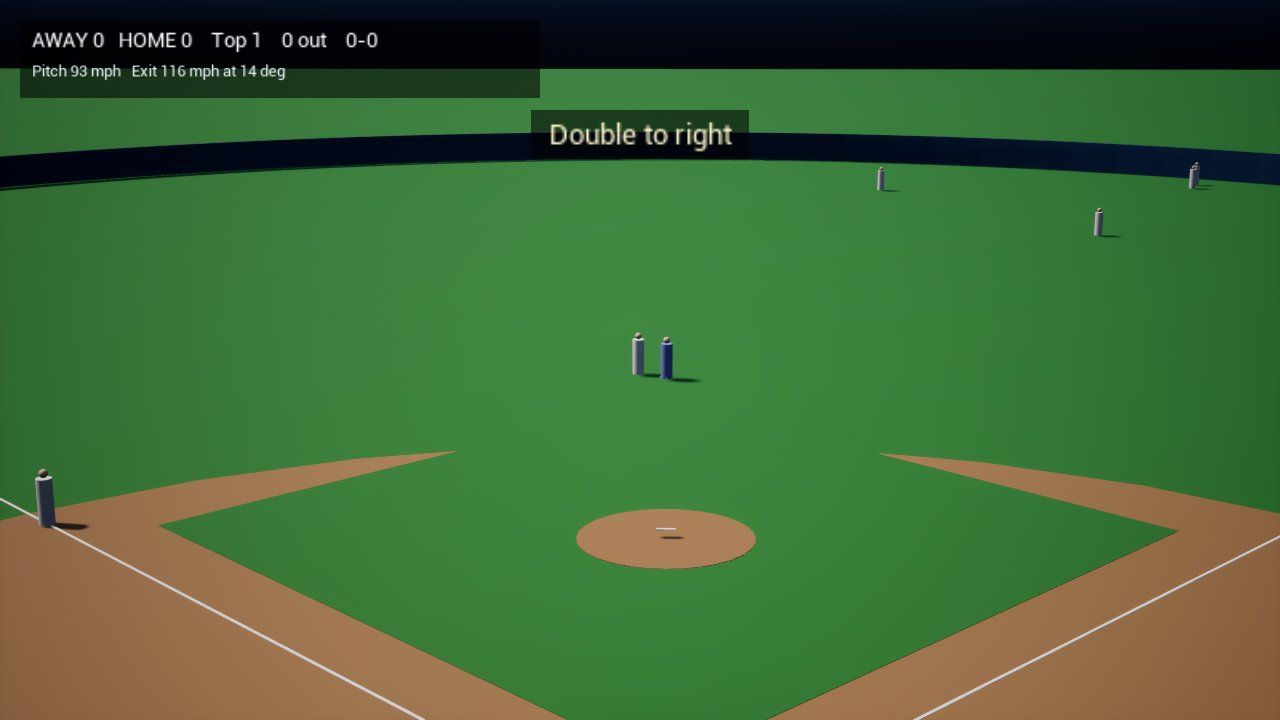
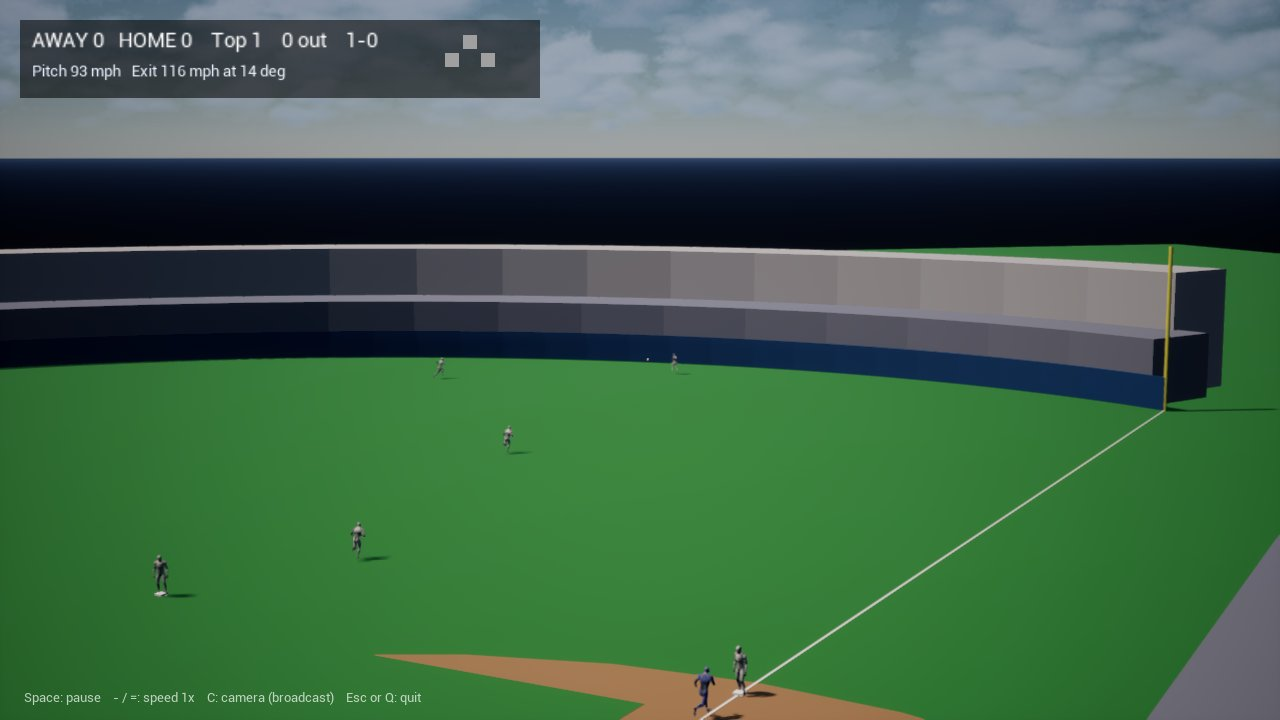
Client: human figures (the engine's mannequin, idle / walk / jog by speed, facing, team tint) and Esc or Q to quit
The mannequin assets are copied from the engine's templates by client/run.sh and stay out
of the repository; without them the cylinders are drawn.

diff --git a/client/Source/BaseballClient/BbDirector.cpp b/client/Source/BaseballClient/BbDirector.cpp
@@ -1,13 +1,17 @@
 #include "BbDirector.h"
 #include "BbFrame.h"
 #include "BbGameMode.h"
+#include "Animation/AnimSequence.h"
+#include "Animation/SkeletalMeshActor.h"
 #include "Async/Async.h"
 #include "Camera/CameraActor.h"
 #include "Camera/CameraComponent.h"
 #include "Components/DirectionalLightComponent.h"
 #include "Components/SkyAtmosphereComponent.h"
 #include "Components/SkyLightComponent.h"
+#include "Components/SkeletalMeshComponent.h"
 #include "Components/StaticMeshComponent.h"
+#include "Engine/SkeletalMesh.h"
 #include "Engine/DirectionalLight.h"
 #include "Engine/ExponentialHeightFog.h"
 #include "Engine/SkyLight.h"
@@ -233,7 +237,32 @@ void ABbDirector::BeginPlay()
 	BuildField();
 	BuildStands();
 
-	// Players: a body and a head each, hidden until a frame uses them.
+	// Players. Human figures if the mannequin assets are in Content (client/run.sh copies
+	// them from the engine's templates; they are not in the repository).
+	FigureMesh = LoadObject<USkeletalMesh>(nullptr, TEXT("/Game/Characters/Mannequins/Meshes/SKM_Manny_Simple.SKM_Manny_Simple"));
+	AnimIdle = LoadObject<UAnimSequence>(nullptr, TEXT("/Game/Characters/Mannequins/Anims/Unarmed/MM_Idle.MM_Idle"));
+	AnimWalk = LoadObject<UAnimSequence>(nullptr, TEXT("/Game/Characters/Mannequins/Anims/Unarmed/Walk/MF_Unarmed_Walk_Fwd.MF_Unarmed_Walk_Fwd"));
+	AnimJog = LoadObject<UAnimSequence>(nullptr, TEXT("/Game/Characters/Mannequins/Anims/Unarmed/Jog/MF_Unarmed_Jog_Fwd.MF_Unarmed_Jog_Fwd"));
+	const bool bFigures = FigureMesh && AnimIdle && AnimWalk && AnimJog;
+	if (!bFigures)
+	{
+		UE_LOG(LogBb, Warning, TEXT("Mannequin assets not found under /Game/Characters/Mannequins: drawing players as cylinders. Run client/run.sh once to copy them."));
+	}
+	FigureState.SetNum(MaxActors);
+	for (int32 I = 0; bFigures && I < MaxActors; ++I)
+	{
+		ASkeletalMeshActor* F = GetWorld()->SpawnActor<ASkeletalMeshActor>(FVector::ZeroVector, FRotator::ZeroRotator);
+		USkeletalMeshComponent* C = F->GetSkeletalMeshComponent();
+		C->SetMobility(EComponentMobility::Movable);
+		C->SetSkeletalMeshAsset(FigureMesh);
+		C->SetCollisionEnabled(ECollisionEnabled::NoCollision);
+		C->SetAnimationMode(EAnimationMode::AnimationSingleNode);
+		// Animate even when a figure is small or briefly off screen: the camera cuts often.
+		C->VisibilityBasedAnimTickOption = EVisibilityBasedAnimTickOption::AlwaysTickPoseAndRefreshBones;
+		F->SetActorHiddenInGame(true);
+		Figures.Add(F);
+	}
+	// Cylinder stand-ins: a body and a head each, hidden until a frame uses them.
 	for (int32 I = 0; I < MaxActors; ++I)
 	{
 		AStaticMeshActor* Body = Shape(Cylinder, FVector::ZeroVector, FVector(0.5, 0.5, 1.5), FLinearColor::White);
@@ -317,6 +346,77 @@ void ABbDirector::BeginPlayback(FBbPlay&& Play)
 	HoldAfter = Current.Info.exit_velocity_mps > 0.f ? 2.5f : 1.2f;
 }
 
+void ABbDirector::PoseFigure(int32 Index, const BbActor& A, float SimDt, float DeltaSeconds)
+{
+	ASkeletalMeshActor* F = Figures[Index];
+	USkeletalMeshComponent* C = F->GetSkeletalMeshComponent();
+	FFigureState& St = FigureState[Index];
+	const FVector Foot = ToUE(A.pos);
+	// Speed from how far he moved in sim time. A new agent in this slot, or a jump of
+	// more than a sprinter could cover (a new play), is a placement, not a run.
+	if (St.Agent != A.agent)
+	{
+		St.Agent = A.agent;
+		St.SpeedCm = 0.f;
+		St.Gait = -1;
+		St.Yaw = ((ToUE(0, 0.3, 0) - Foot).Rotation().Yaw);
+	}
+	else if (SimDt > 1e-5f)
+	{
+		const float Raw = (Foot - St.Pos).Size2D() / SimDt;
+		St.SpeedCm = Raw > 1400.f ? 0.f : FMath::FInterpTo(St.SpeedCm, Raw, DeltaSeconds, 12.f);
+	}
+	// Facing: where he is going if he is moving, otherwise the plate (everyone watches the
+	// pitch; the batter stands side-on to the pitcher).
+	const FVector Move = Foot - St.Pos;
+	float WantYaw = St.Yaw;
+	if (St.SpeedCm > 90.f && Move.SizeSquared2D() > 1e-4)
+	{
+		WantYaw = Move.Rotation().Yaw;
+	}
+	else if (St.SpeedCm < 40.f)
+	{
+		WantYaw = (ToUE(0, 0.3, 0) - Foot).Rotation().Yaw;
+	}
+	St.Yaw = FMath::RInterpTo(FRotator(0, St.Yaw, 0), FRotator(0, WantYaw, 0), DeltaSeconds, 10.f).Yaw;
+	St.Pos = Foot;
+	F->SetActorLocation(Foot);
+	// The mannequin's mesh faces +Y in its own frame.
+	F->SetActorRotation(FRotator(0.f, St.Yaw - 90.f, 0.f));
+
+	const int32 Gait = St.SpeedCm < 40.f ? 0 : (St.SpeedCm < 250.f ? 1 : 2);
+	if (Gait != St.Gait)
+	{
+		St.Gait = Gait;
+		C->PlayAnimation(Gait == 0 ? AnimIdle : (Gait == 1 ? AnimWalk : AnimJog), true);
+	}
+	// The walk clip covers about 2.3 m/s and the jog about 5 m/s; play faster for a sprint.
+	C->SetPlayRate(SimDt <= 1e-5f ? 0.f : (Gait == 0 ? 1.f : FMath::Clamp(St.SpeedCm / (Gait == 1 ? 230.f : 500.f), 0.6f, 1.9f)) * (SimDt / FMath::Max(DeltaSeconds, 1e-5f)));
+
+	// Uniform colors: home white, away blue; fielders a shade apart from batters and runners.
+	const bool bHome = (A.agent >> 8) != 0;
+	const bool bFielder = (A.agent & 0x80) != 0;
+	const int32 Team = (bHome ? 2 : 0) + (bFielder ? 1 : 0);
+	if (Team != St.Team)
+	{
+		St.Team = Team;
+		const FLinearColor Col = bHome ? (bFielder ? FLinearColor(0.8f, 0.8f, 0.85f) : FLinearColor(0.95f, 0.95f, 0.95f)) : (bFielder ? FLinearColor(0.08f, 0.12f, 0.4f) : FLinearColor(0.15f, 0.2f, 0.6f));
+		for (int32 M = 0; M < C->GetNumMaterials(); ++M)
+		{
+			// The mannequin's own material, with its painted panels tinted to the uniform.
+			UMaterialInstanceDynamic* Mat = Cast<UMaterialInstanceDynamic>(C->GetMaterial(M));
+			if (!Mat)
+			{
+				Mat = C->CreateDynamicMaterialInstance(M);
+			}
+			if (Mat)
+			{
+				Mat->SetVectorParameterValue(TEXT("Paint Tint"), Col);
+			}
+		}
+	}
+}
+
 void ABbDirector::UpdateCamera(const BbFrame& Frame, float DeltaSeconds)
 {
 	UCameraComponent* C = Camera->GetCameraComponent();
@@ -360,7 +460,7 @@ void ABbDirector::Tick(float DeltaSeconds)
 		WorstFrame = FMath::Max(WorstFrame, (double)DeltaSeconds);
 	}
 
-	// Keys: Space pauses, - and = change speed, C changes camera.
+	// Keys: Space pauses, - and = change speed, C changes camera, Esc or Q quits.
 	if (APlayerController* PC = GetWorld()->GetFirstPlayerController())
 	{
 		if (PC->WasInputKeyJustPressed(EKeys::SpaceBar))
@@ -378,6 +478,10 @@ void ABbDirector::Tick(float DeltaSeconds)
 		if (PC->WasInputKeyJustPressed(EKeys::C))
 		{
 			CameraMode = (CameraMode + 1) % 3;
+		}
+		if (PC->WasInputKeyJustPressed(EKeys::Escape) || PC->WasInputKeyJustPressed(EKeys::Q))
+		{
+			FPlatformMisc::RequestExit(false);
 		}
 	}
 
@@ -401,8 +505,22 @@ void ABbDirector::Tick(float DeltaSeconds)
 			for (int32 I = 0; I < MaxActors; ++I)
 			{
 				const bool bShow = I < (int32)Frame.n_actors;
-				Bodies[I]->SetActorHiddenInGame(!bShow);
-				Heads[I]->SetActorHiddenInGame(!bShow);
+				const bool bFigure = Figures.Num() == MaxActors;
+				Bodies[I]->SetActorHiddenInGame(!bShow || bFigure);
+				Heads[I]->SetActorHiddenInGame(!bShow || bFigure);
+				if (bFigure)
+				{
+					Figures[I]->SetActorHiddenInGame(!bShow);
+					if (bShow)
+					{
+						PoseFigure(I, Frame.actors[I], bPaused ? 0.f : DeltaSeconds * Speed, DeltaSeconds);
+					}
+					else
+					{
+						FigureState[I].Agent = 0xFFFF;
+					}
+					continue;
+				}
 				if (!bShow)
 				{
 					continue;
@@ -437,7 +555,7 @@ void ABbDirector::Tick(float DeltaSeconds)
 			const bool bKnown = In.exit_velocity_mps > 0.f ? PlayTime >= In.duration_s : PlayTime >= 0.55f;
 			Hud->Call = bKnown ? FString(UTF8_TO_TCHAR(In.summary)) : FString();
 			static const TCHAR* CamNames[3] = { TEXT("broadcast"), TEXT("behind home"), TEXT("overhead") };
-			Hud->Footer = FString::Printf(TEXT("Space: %s    - / =: speed %.2gx    C: camera (%s)"), bPaused ? TEXT("paused") : TEXT("pause"), Speed, CamNames[CameraMode]);
+			Hud->Footer = FString::Printf(TEXT("Space: %s    - / =: speed %.2gx    C: camera (%s)    Esc or Q: quit"), bPaused ? TEXT("paused") : TEXT("pause"), Speed, CamNames[CameraMode]);
 			if (bKnown)
 			{
 				Hud->Bases = In.bases;

diff --git a/client/Source/BaseballClient/BbDirector.h b/client/Source/BaseballClient/BbDirector.h
@@ -7,6 +7,9 @@
 #include "BbDirector.generated.h"
 
 class AStaticMeshActor;
+class ASkeletalMeshActor;
+class USkeletalMesh;
+class UAnimSequence;
 class ACameraActor;
 class UStaticMesh;
 class UMaterialInterface;
@@ -65,6 +68,29 @@ private:
 	TArray<TObjectPtr<AStaticMeshActor>> Bodies;
 	UPROPERTY()
 	TArray<TObjectPtr<AStaticMeshActor>> Heads;
+	// Human figures (the engine's mannequin, copied into Content by client/run.sh). When
+	// the assets are missing the cylinders above are used instead.
+	UPROPERTY()
+	TObjectPtr<USkeletalMesh> FigureMesh;
+	UPROPERTY()
+	TObjectPtr<UAnimSequence> AnimIdle;
+	UPROPERTY()
+	TObjectPtr<UAnimSequence> AnimWalk;
+	UPROPERTY()
+	TObjectPtr<UAnimSequence> AnimJog;
+	UPROPERTY()
+	TArray<TObjectPtr<ASkeletalMeshActor>> Figures;
+	struct FFigureState
+	{
+		uint16 Agent = 0xFFFF;
+		FVector Pos = FVector::ZeroVector;
+		float Yaw = 0.f;
+		int32 Gait = -1; // 0 idle, 1 walk, 2 jog
+		float SpeedCm = 0.f;
+		int32 Team = -1;
+	};
+	TArray<FFigureState> FigureState;
+	void PoseFigure(int32 Index, const BbActor& A, float SimDt, float DeltaSeconds);
 	UPROPERTY()
 	TObjectPtr<AStaticMeshActor> Ball;
 	UPROPERTY()
